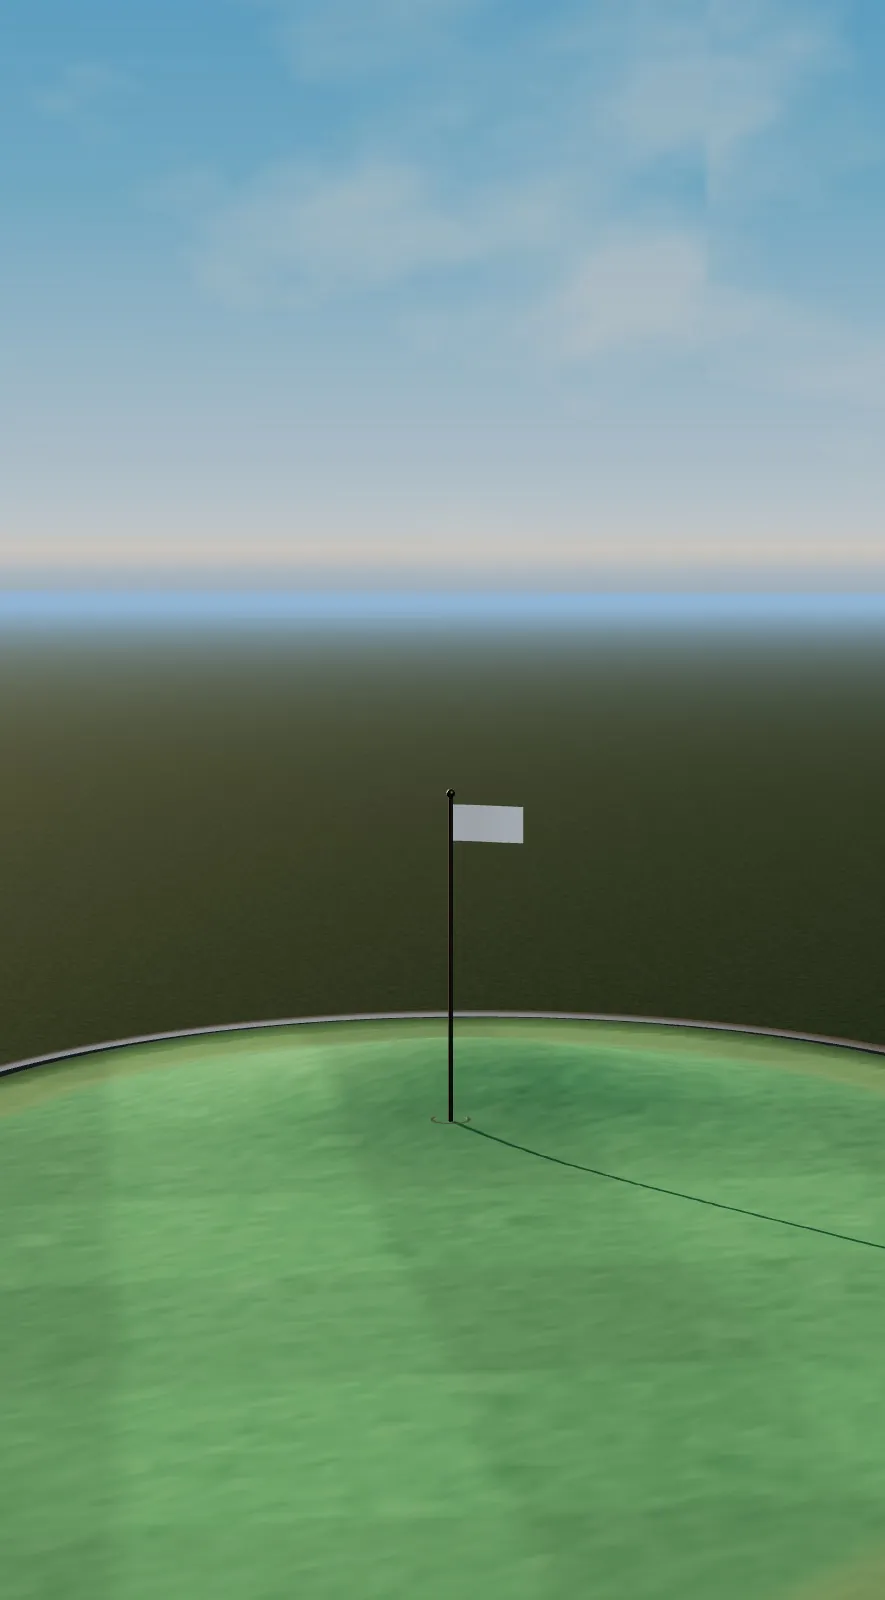
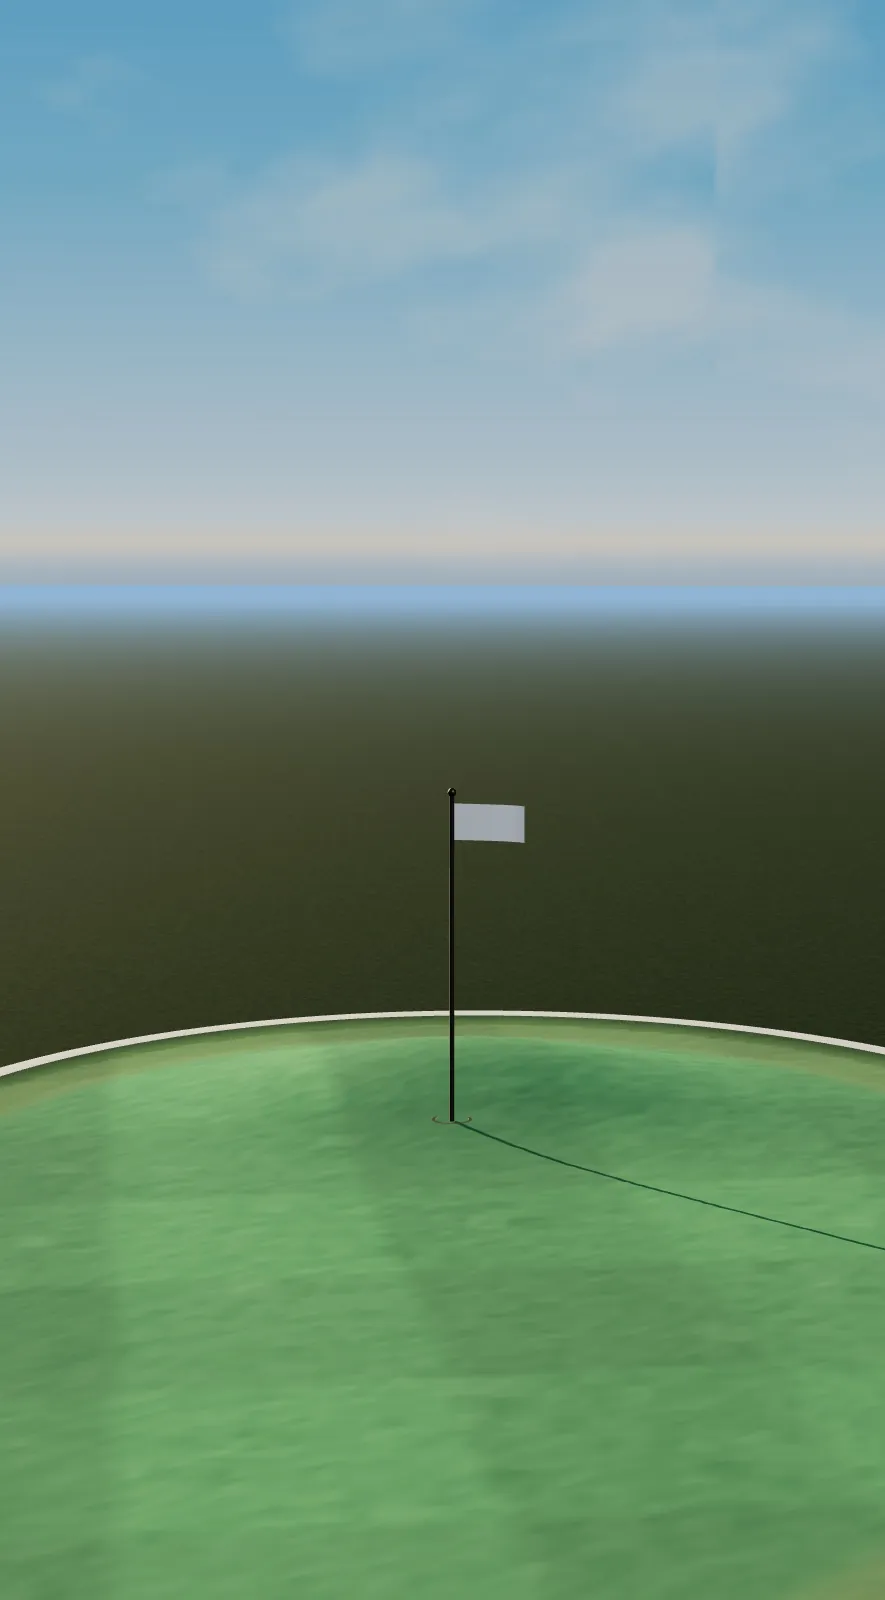
Hero: wind the coping strip face-up, narrow and quiet it, recapture posters
The limestone coping's triangles faced down, so the near side was back-face
culled and the dark basin showed as a band along the green's near rim; only
a thin line survived on the far side. Flip the winding so the ring renders all
round, then narrow it to 0.24 m (lawn hole to match) and tone the limestone
down so the full ring reads as a quiet edge rather than a white band.
Posters re-captured on the GPU.

Changed region(s): [[0.0915, 0.625, 1.0, 0.6875], [0.4881, 0.5, 0.5186, 0.5938], [0.0, 0.6562, 0.0915, 0.6875]]

diff --git a/terraputt-hero.html b/terraputt-hero.html
@@ -1404,7 +1404,7 @@ function buildEnvironment() {
   const HN = 192;
   for (let i = 0; i < HN; i++) {
     const th = (i / HN) * Math.PI * 2;
-    const r = R_BASE * edgeShape(th) * 0.992 + 0.34 + 0.004;   // coping outer edge
+    const r = R_BASE * edgeShape(th) * 0.992 + 0.24 + 0.004;   // coping outer edge (matches WIDTH below)
     // Shape space is (x, y); the plane is rotated -90° about X so shape y -> world -z.
     // edgeShape is defined in the green's local frame where local y = -world z, so shape y = local y.
     const px = Math.cos(th) * r, py = Math.sin(th) * r;
@@ -1434,7 +1434,7 @@ function buildEnvironment() {
 
   /* Stone coping: a low limestone edge that follows the green's
      organic outline, so the surface reads as built into the garden. */
-  const N = 288, LIP_Y = 0.024, BASE_Y = -0.035, WIDTH = 0.34;
+  const N = 288, LIP_Y = 0.024, BASE_Y = -0.035, WIDTH = 0.24;
   const pos = [];
   for (let i = 0; i <= N; i++) {
     const th = (i / N) * Math.PI * 2;
@@ -1451,8 +1451,8 @@ function buildEnvironment() {
   for (let i = 0; i < N; i++) {
     const a = i * 4, b = (i + 1) * 4;
     for (let k = 0; k < 3; k++) {
-      idx.push(a + k, b + k, a + k + 1);
-      idx.push(b + k, b + k + 1, a + k + 1);
+      idx.push(a + k, a + k + 1, b + k);
+      idx.push(b + k, a + k + 1, b + k + 1);
     }
   }
   const copingGeom = new THREE.BufferGeometry();
@@ -1460,8 +1460,8 @@ function buildEnvironment() {
   copingGeom.setIndex(idx);
   copingGeom.computeVertexNormals();
   const coping = new THREE.Mesh(copingGeom, new THREE.MeshStandardMaterial({
-    color: 0xc2b49b, roughness: 0.88, metalness: 0.0,   // warm limestone
-    emissive: 0x4a4236, emissiveIntensity: 0.55            // the key rakes from behind, so lift the shadow side to a readable mid-tone
+    color: 0xa89c84, roughness: 0.9, metalness: 0.0,    // warm limestone, kept quiet: the whole ring is visible now
+    emissive: 0x4a4236, emissiveIntensity: 0.35            // the key rakes from behind, so lift the shadow side to a readable mid-tone
   }));
   coping.castShadow = true;
   coping.receiveShadow = true;
